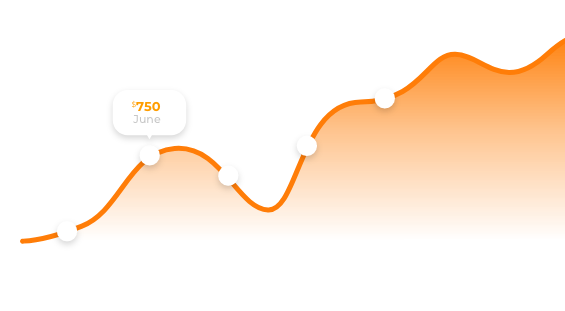
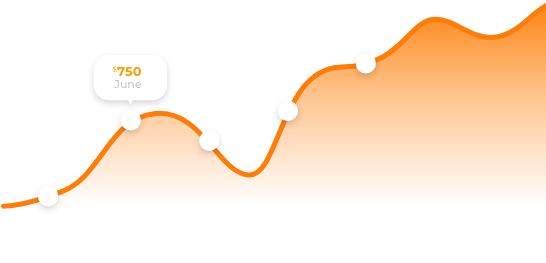
Fix slide 2 crop issue for android and making all tutorial screens responsive

Changed region(s): [[0.0, 0.0, 1.0, 0.7909], [0.1868, 0.2433, 0.2802, 0.3954]]

diff --git a/components/Screens/Tutorial/Screen2.js b/components/Screens/Tutorial/Screen2.js
@@ -1,5 +1,5 @@
 import React from "react";
-import { View, Image, Text, I18nManager, Dimensions } from "react-native";
+import { View, Image, Text, I18nManager, Platform } from "react-native";
 import { Icon } from "native-base";
 import * as Animatable from "react-native-animatable";
 
@@ -20,11 +20,18 @@ export default class Screen2 extends React.Component {
   componentDidUpdate() {
     const { id, activeSlide, changed } = this.props;
     if (changed && id === activeSlide) {
+      // To start the animation of (button 1) view together with the business name and brandname view
+      this.bsnViewBtn.animate({
+        0: { scale: 1, translateX: 0 },
+        0.5: { scale: 1.2, translateX: I18nManager.isRTL ? -30 : 30 },
+        1: { scale: 1, translateX: 0 }
+      });
+
       this.bsnView
         .animate({
           0: { scale: 1, translateX: 0 },
           0.5: {
-            scale: 1.5,
+            scale: 1.4,
             translateX: I18nManager.isRTL ? -30 : 30
           },
           1: { scale: 1, translateX: 0 }
@@ -69,92 +76,99 @@ export default class Screen2 extends React.Component {
     const { translate } = this.props.screenProps;
 
     return (
-      <Animatable.View style={styles.screen2OuterView}>
-        <View
-          style={{
-            borderRadius: 30,
-            position: "absolute",
-            height: "100%",
-            zIndex: -2
-          }}
-        >
-          <Image
-            style={{
-              borderRadius: 30,
-              opacity: 0.4,
-              overflow: "hidden",
-              height: "100%"
-            }}
-            source={require("../../../assets/images/AdImagePlaceholder.png")}
-          />
-        </View>
-
+      <Animatable.View>
+        {/* For android the view was cropping so had to remove from the inner view and place it in top most parent view */}
         <Animatable.View
-          ref={ref => (this.bsnView = ref)}
+          ref={ref => (this.bsnViewBtn = ref)}
           duration={2000}
-          style={styles.bsnView}
+          style={[styles.bsnBtnView]}
         >
           <GradientButton
             style={styles.block1}
             text={1}
             textStyle={styles.blockText}
           />
-          <Animatable.View style={styles.adDesignTopView}>
-            <PenIcon width={17} height={17} />
-            <View style={styles.adDesignDetailView}>
-              <Text style={styles.adDesignHeading}>
-                {translate("Business Name")}
-              </Text>
-              <Text style={styles.adDesignDescp}>ABYAT</Text>
-            </View>
+        </Animatable.View>
+
+        <View style={styles.screen2OuterView}>
+          <View
+            style={{
+              borderRadius: 30,
+              position: "absolute",
+              height: "100%"
+            }}
+          >
+            <Image
+              style={{
+                borderRadius: 30,
+                opacity: 0.4,
+                overflow: "hidden",
+                height: "100%"
+              }}
+              source={require("../../../assets/images/AdImagePlaceholder.png")}
+            />
+          </View>
+          <Animatable.View
+            ref={ref => (this.bsnView = ref)}
+            duration={2000}
+            style={[styles.bsnView, { paddingTop: 20 }]}
+          >
+            <Animatable.View style={styles.adDesignTopView}>
+              <PenIcon width={17} height={17} />
+              <View style={styles.adDesignDetailView}>
+                <Text style={styles.adDesignHeading}>
+                  {translate("Business Name")}
+                </Text>
+                <Text style={styles.adDesignDescp}>ABYAT</Text>
+              </View>
+            </Animatable.View>
+            <Animatable.View style={styles.adDesignTopView}>
+              <PenIcon width={17} height={17} />
+              <View style={styles.adDesignDetailView}>
+                <Text style={styles.adDesignHeading}>
+                  {translate("Headline")}
+                </Text>
+                <Text style={styles.adDesignDescp}>New Collection</Text>
+              </View>
+            </Animatable.View>
           </Animatable.View>
-          <Animatable.View style={styles.adDesignTopView}>
-            <PenIcon width={17} height={17} />
-            <View style={styles.adDesignDetailView}>
-              <Text style={styles.adDesignHeading}>
-                {translate("Headline")}
-              </Text>
-              <Text style={styles.adDesignDescp}>New Collection</Text>
-            </View>
+          <Animatable.View
+            ref={ref => (this.mediaBtnRef = ref)}
+            style={styles.mediaButtonView}
+            duration={2000}
+          >
+            <GradientButton
+              style={styles.block}
+              text={2}
+              textStyle={styles.blockText}
+            />
+
+            <EditCameraIcon width={70} height={70} />
+            <Text style={styles.editText}>{translate("Edit Media")}</Text>
           </Animatable.View>
-        </Animatable.View>
+          <Animatable.View
+            ref={ref => (this.swipeViewRef = ref)}
+            duration={2000}
+            style={styles.swipeUpView}
+          >
+            <GradientButton
+              style={styles.block3}
+              textStyle={styles.blockText}
+              text={3}
+            />
 
-        <Animatable.View
-          ref={ref => (this.mediaBtnRef = ref)}
-          style={styles.mediaButtonView}
-          duration={2000}
-        >
-          <GradientButton
-            style={styles.block}
-            text={2}
-            textStyle={styles.blockText}
-          />
-
-          <EditCameraIcon width={70} height={70} />
-          <Text style={styles.editText}>{translate("Edit Media")}</Text>
-        </Animatable.View>
-        <Animatable.View
-          ref={ref => (this.swipeViewRef = ref)}
-          duration={2000}
-          style={styles.swipeUpView}
-        >
-          <GradientButton
-            style={styles.block3}
-            textStyle={styles.blockText}
-            text={3}
-          />
-
-          <Text style={styles.adDesignWebsite}>{translate("Website")}</Text>
-          <Text style={styles.adDesignWebsitePlaceholder}>
-            www.optimizeapp.com
-          </Text>
-          <Icon
-            type="MaterialIcons"
-            name="arrow-drop-down"
-            fontSize={50}
-            style={styles.downIcon}
-          />
-        </Animatable.View>
+            <Text style={styles.adDesignWebsite}>{translate("Website")}</Text>
+            <Text style={styles.adDesignWebsitePlaceholder}>
+              www.optimizeapp.com
+            </Text>
+            <Icon
+              type="MaterialIcons"
+              name="arrow-drop-down"
+              fontSize={50}
+              style={styles.downIcon}
+            />
+          </Animatable.View>
+        </View>
       </Animatable.View>
     );
   }

diff --git a/components/Screens/Tutorial/styles.js b/components/Screens/Tutorial/styles.js
@@ -13,21 +13,21 @@ const styles = StyleSheet.create({
     borderTopRightRadius: 0,
     borderBottomLeftRadius: 30,
     borderBottomRightRadius: 0,
-    marginVertical: 8,
+    // marginVertical: 8,
     shadowOpacity: 1,
     shadowRadius: 30,
     shadowColor: "#5314B4",
     elevation: 8,
     shadowOffset: { height: 6, width: 0 },
-    paddingVertical: 20,
+    paddingVertical: 10,
     borderTopLeftRadius: 30,
     paddingHorizontal: 25,
     zIndex: -19
   },
   shopCard: {
-    position: "absolute",
-    left: widthPercentageToDP(-45),
-    top: heightPercentageToDP(3),
+    // position: "absolute",
+    left: widthPercentageToDP(8),
+    // top: heightPercentageToDP(3),
     width: widthPercentageToDP(100)
   },
   campaignButton: {
@@ -90,15 +90,17 @@ const styles = StyleSheet.create({
     textTransform: "uppercase"
   },
   screen1OuterView: {
-    position: "absolute",
-    top: heightPercentageToDP(14),
+    // position: "absolute",
+    // top: heightPercentageToDP(14),
+    display: "flex",
     flexDirection: "row",
     flexWrap: "wrap",
+    // flex: 1,
     paddingHorizontal: 20,
     alignSelf: "center",
-    alignItems: "center",
+    alignItems: "center"
 
-    marginBottom: 200
+    // marginBottom: 200
   },
   adDesignTopView: {
     display: "flex",
@@ -179,8 +181,14 @@ const styles = StyleSheet.create({
   block1: {
     width: 30,
     height: 30,
-    marginTop: -10,
-    zIndex: 1000
+    marginLeft: widthPercentageToDP(10)
+    // position: "absolute",
+    // top: 0,
+    // left: -widthPercentageToDP(20)
+    // right: 0,
+    // bottom: 0,
+    // zIndex: 100
+    // elevation: 40
   },
   block3: {
     width: 30,
@@ -190,7 +198,7 @@ const styles = StyleSheet.create({
     top: -12
   },
   blockText: {
-    fontFamily: "montserrat-bold",
+    fontFamily: "montserrat-bold-english",
     fontSize: 17
   },
   safeAreaViewContainer: {
@@ -271,10 +279,12 @@ const styles = StyleSheet.create({
     paddingHorizontal: 20
   },
   blockDescription: {
-    position: "absolute",
-    bottom: heightPercentageToDP(15),
+    // flex: 1,
+    // position: "absolute",
+    // bottom: heightPercentageToDP(15),
     marginVertical: 20,
-    paddingHorizontal: 40
+    paddingHorizontal: 40,
+    alignSelf: "flex-end"
   },
   heading: {
     fontSize: 20,
@@ -313,40 +323,34 @@ const styles = StyleSheet.create({
     textAlign: "center",
     textTransform: "uppercase"
   },
-  screen4View: {
-    position: "absolute",
-    top: heightPercentageToDP(8)
-    // width: "100%"
-  },
   graphImage: {
-    position: "absolute",
-    top: heightPercentageToDP(20),
-    left: I18nManager.isRTL
-      ? widthPercentageToDP(-80)
-      : widthPercentageToDP(-60)
+    height: heightPercentageToDP(30),
+    width: widthPercentageToDP(100)
   },
   screen2OuterView: {
-    position: "absolute",
-    top:
-      Dimensions.get("window").width > 400
-        ? heightPercentageToDP(18)
-        : heightPercentageToDP(10),
     display: "flex",
     alignItems: "center",
     borderRadius: 30,
     justifyContent: "center",
     alignSelf: "center",
     backgroundColor: "rgba(0,0,0,0.55)",
-    paddingHorizontal: 25
+    paddingHorizontal: 25,
+    marginTop: -15
   },
   bsnView: {
+    alignSelf: "flex-start"
+  },
+  bsnBtnView: {
     alignSelf: "flex-start",
-    zIndex: 200
+    zIndex: 2,
+    elevation: 1
   },
   lowerBtn: { width: 46, height: 46 },
   mainView: {
     flex: 1,
     display: "flex",
+    flexDirection: "column",
+    justifyContent: "center",
     alignItems: "center",
     paddingHorizontal: 20
   }

diff --git a/components/Screens/Tutorial/Screen4.js b/components/Screens/Tutorial/Screen4.js
@@ -2,18 +2,17 @@ import React from "react";
 import { View } from "react-native";
 import * as Animatable from "react-native-animatable";
 import Award from "../../../assets/SVGs/award";
-import { widthPercentageToDP } from "react-native-responsive-screen";
-import styles from "./styles";
+import { heightPercentageToDP } from "react-native-responsive-screen";
 
 export default class Screen4 extends React.Component {
   render() {
     const { id, activeSlide, changed } = this.props;
 
     return (
-      <View style={styles.screen4View}>
+      <View>
         {id === activeSlide && (
           <Animatable.View animation={this.props.changed ? "bounceInDown" : ""}>
-            <Award width={widthPercentageToDP(70)} />
+            <Award height={heightPercentageToDP(50)} />
           </Animatable.View>
         )}
       </View>
